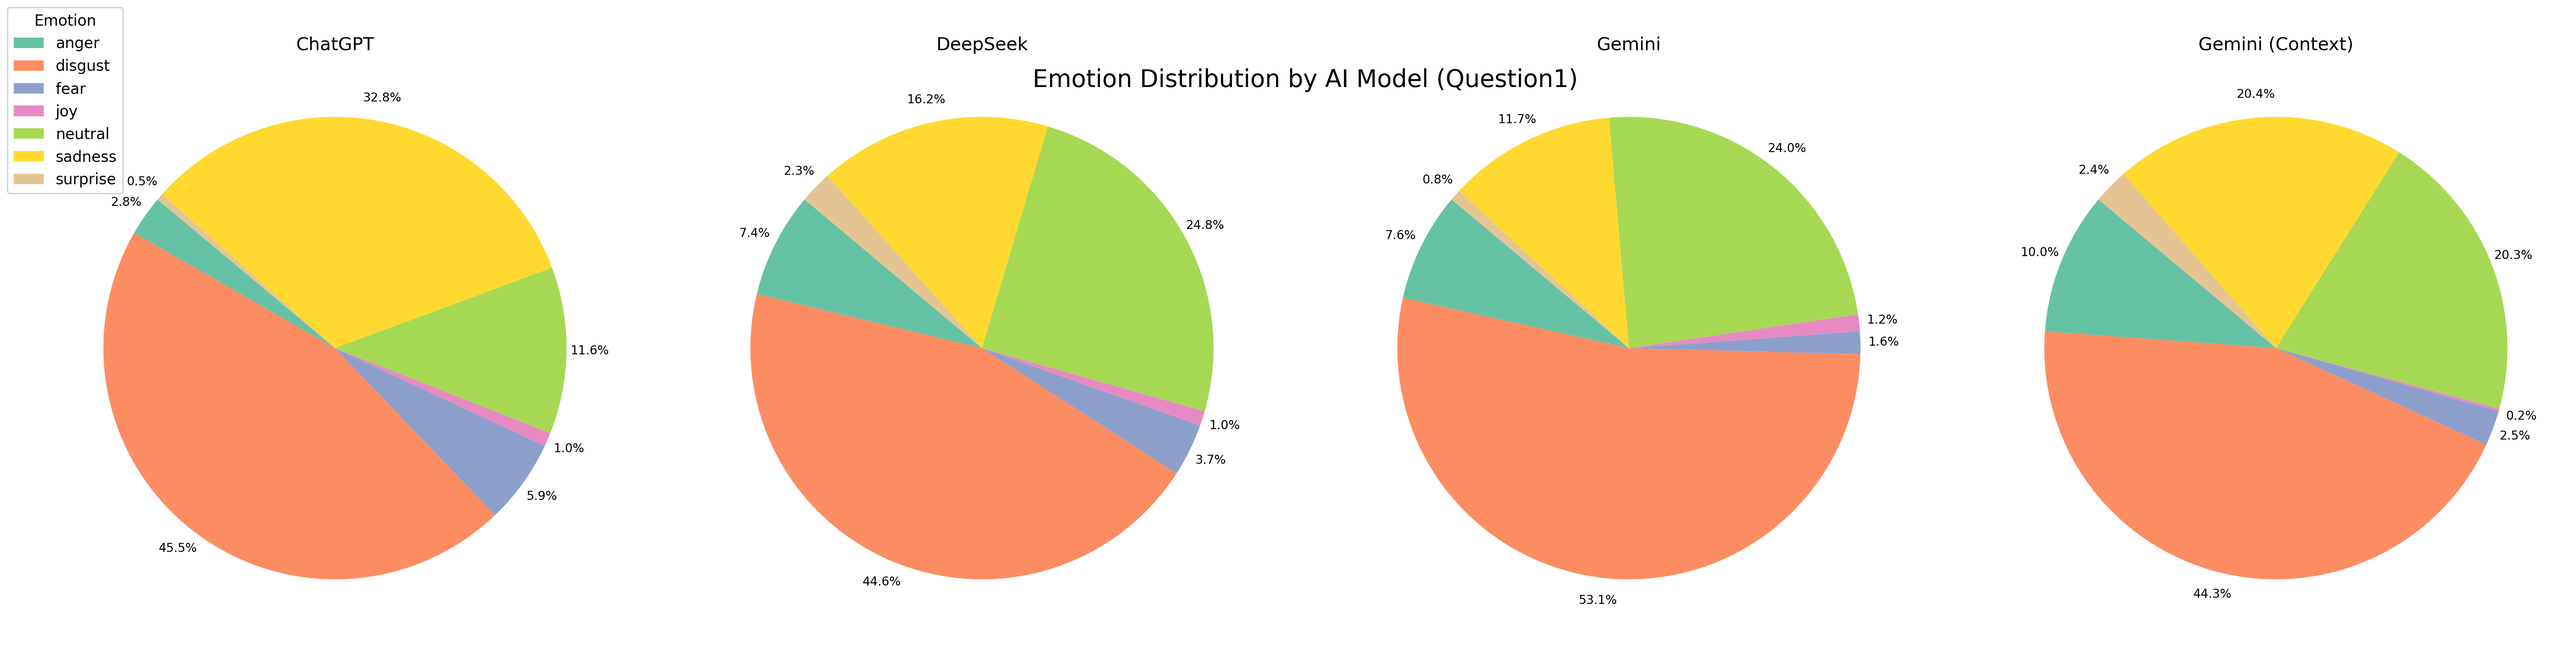
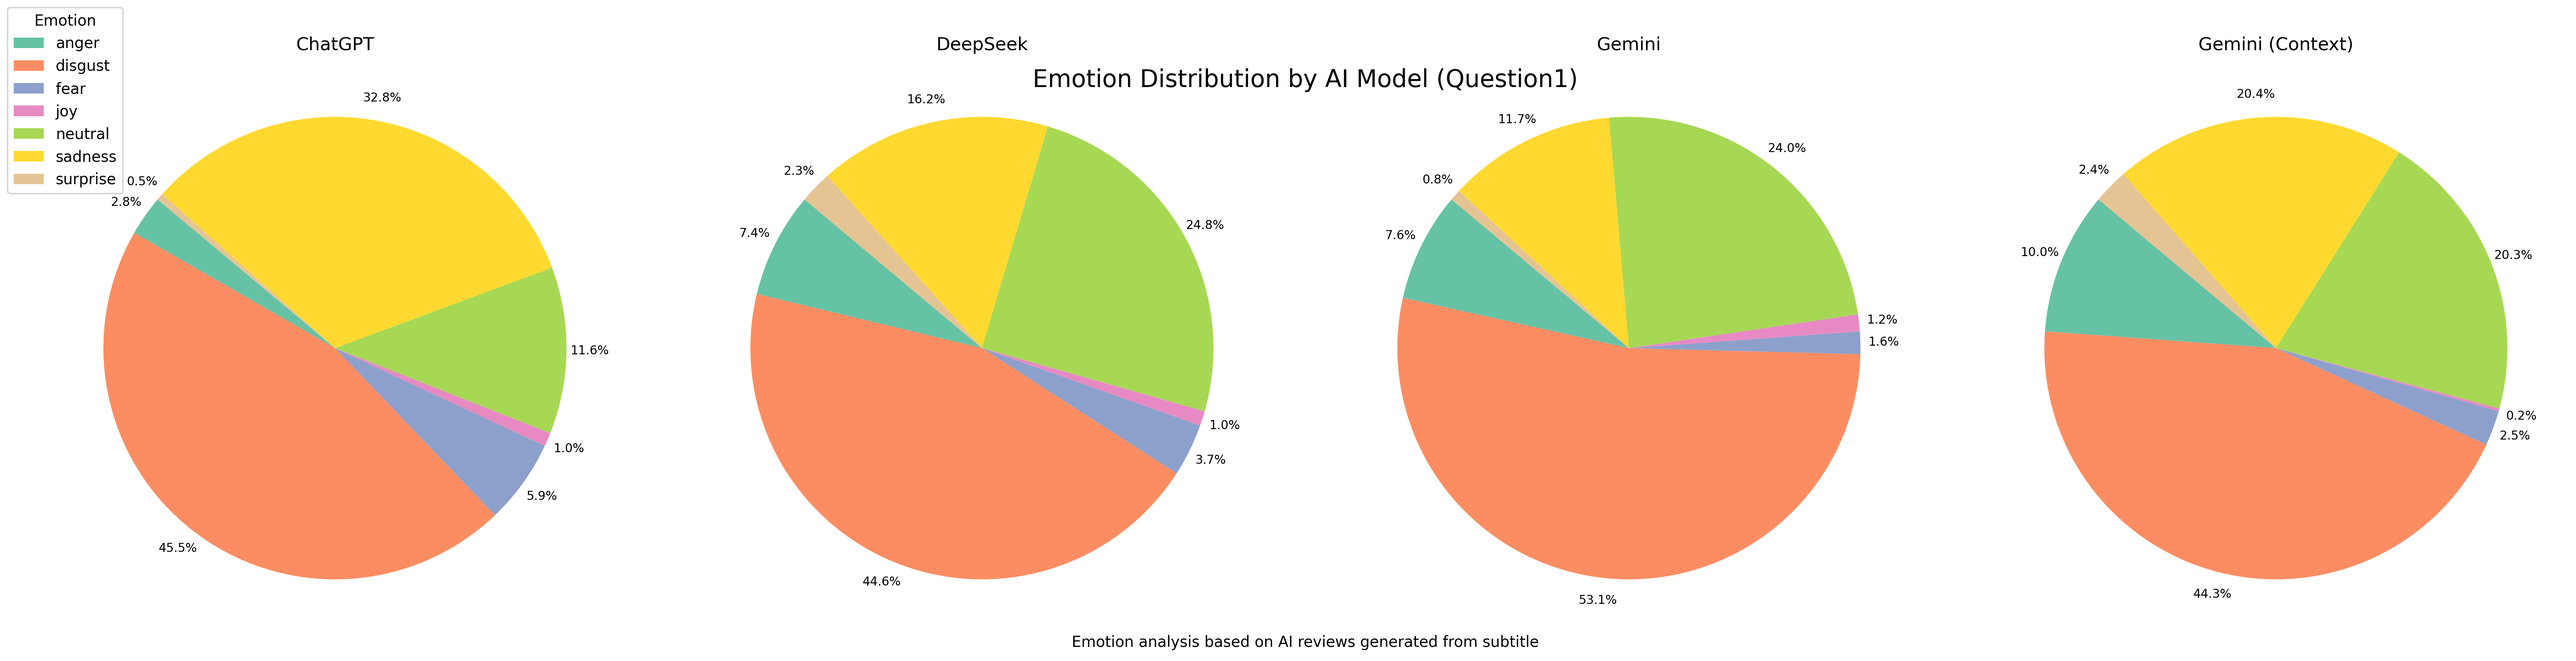
add and update png

diff --git a/visualization/emotion.py b/visualization/emotion.py
@@ -4,24 +4,83 @@ import seaborn as sns
 
 # Load IMDb average emotion scores
 imdb_df = pd.read_csv('../emotions_output/average_emotion_scores_imdb.csv')
-
 # Melt for visualization
 imdb_melted = imdb_df.melt(id_vars='Movie', var_name='Emotion', value_name='IMDb Score')
 # imdb_melted['Source'] = 'IMDb'
 
-# Load AI average emotion scores
-ai_df = pd.read_csv('../emotions_output/average_emotion_scores_subtitles.csv')
-ai_df.rename(columns={'File': 'AI Model'}, inplace=True)
+def generate_emotion_pie_charts(ai_df, source_name='ai'):
+    ai_df = ai_df.copy()
+    ai_df.rename(columns={'File': 'AI Model'}, inplace=True)
+    # mapping
+    if source_name == 'subtitle':
+        ai_df["AI Model"] = ai_df["AI Model"].replace({
+            "aireviews_chatgpt.csv": "ChatGPT",
+            "aireviews_deepseek.csv": "DeepSeek",
+            "aireviews_gemini.csv": "Gemini",
+            "aireviews_gemini_context_variation.csv": "Gemini (Context)"
+        })
+    elif source_name == 'screenplay':
+        ai_df["AI Model"] = ai_df["AI Model"].replace({
+            "aireviews_chatgpt_screenplays.csv": "ChatGPT",
+            "aireviews_deepseek_screenplays.csv": "DeepSeek",
+            "aireviews_gemini_screenplays.csv": "Gemini",
+            "aireviews_gemini_screenplays_context_variation.csv": "Gemini (Context)"
+        })
 
-ai_df["AI Model"] = ai_df["AI Model"].replace({
-    "aireviews_chatgpt.csv": "ChatGPT",
-    "aireviews_deepseek.csv": "DeepSeek",
-    "aireviews_gemini.csv": "Gemini",
-    "aireviews_gemini_context_variation.csv": "Gemini (Context)"
-})
+    # some emotions are not detected, replace NA with 0
+    ai_df = ai_df.fillna(0)
+    # Loop over questions
+    for question_label in ['question1', 'question2', 'question3']:
+        # Filter for this question
+        ai_subset = ai_df[ai_df['Question'] == question_label]
 
-ai_df = ai_df.fillna(0)
+        # Melt the emotion columns
+        ai_sub_melted = ai_subset.melt(
+            id_vars=['AI Model', 'Movie'],
+            value_vars=['fear', 'joy', 'sadness', 'anger', 'disgust', 'neutral', 'surprise'],
+            var_name='Emotion',
+            value_name='Score'
+        )
+        # Calculate average score
+        avg_emotions_df = ai_sub_melted.groupby(['AI Model', 'Emotion'])['Score'].mean().reset_index()
+        avg_emotions_df.columns = ['AI Model', 'Emotion', 'Average Score']
+        models = avg_emotions_df['AI Model'].unique()
+        # Set up subplots (one per model)
+        fig, axes = plt.subplots(1, len(models), figsize=(6 * len(models), 6))
+        colors = sns.color_palette("Set2", n_colors=7)
+        legend_labels = None
+        for ax, model in zip(axes, models):
+            model_data = avg_emotions_df[avg_emotions_df['AI Model'] == model].set_index('Emotion')
+            ax.pie(model_data['Average Score'],
+                   # labels=model_data.index,
+                   labels = None,
+                   autopct='%1.1f%%',
+                   startangle=140,
+                   colors = colors,
+                   pctdistance=1.1,
+                   textprops={'fontsize': 8})
 
+            ax.set_title(f"{model}")
+            if legend_labels is None:
+                legend_labels = model_data.index
+
+        fig.legend(legend_labels, loc='upper left', title='Emotion')
+
+        # Add a main title
+        fig.suptitle(f"Emotion Distribution by AI Model ({question_label.capitalize()})", fontsize=16, y=0.9)
+
+        # add source at the bottom (reivews generated based on subtitles or screenplays)
+        fig.text(0.5, 0.01,
+                 f"Emotion analysis based on AI reviews generated from {source_name}",
+                 fontsize=10, ha='center')
+
+        plt.tight_layout()
+        question_short = f"q{question_label[-1]}"
+        # save fig
+        plt.savefig(f"emotion_scores_{source_name}_{question_short}.png", dpi=300, bbox_inches="tight")
+        plt.show()
+
+# bar plot (neglect it)
 def plot_emotion_by_question(ai_df, question_label):
     question_df = ai_df[ai_df['Question'] == question_label]
 
@@ -50,53 +109,11 @@ def plot_emotion_by_question(ai_df, question_label):
 # plot_emotion_by_question(ai_df, 'question2')
 # plot_emotion_by_question(ai_df, 'question3')
 
-def plot_emotion_pies_by_question(ai_df, question_label):
-    # filter for question
-    ai_subset = ai_df[(ai_df['Question'] == question_label)]
-    ai_sub_melted = ai_subset.melt(
-        id_vars=['AI Model', 'Movie'],       # Columns to keep
-        value_vars=['fear', 'joy', 'sadness', 'anger', 'disgust', 'neutral', 'surprise'],  # Emotion columns
-        var_name='Emotion',                  # New column name for melted column names
-        value_name='Score'                   # New column name for the emotion values
-    )
 
-    # print(ai_sub_melted.head())
+# For subtitles
+ai_subtitle = pd.read_csv('../emotions_output/average_emotion_scores_subtitles.csv')
+generate_emotion_pie_charts(ai_subtitle, source_name="subtitle")
 
-    # calculate average score across emotion
-    avg_emotions_df = ai_sub_melted.groupby(['AI Model','Emotion'])['Score'].mean().reset_index()
-    avg_emotions_df.columns = ['AI Model','Emotion','Average Score']
-
-    models = avg_emotions_df['AI Model'].unique()
-
-    # Set up subplots (one per model)
-    fig, axes = plt.subplots(1, len(models), figsize=(6 * len(models), 6))
-    colors = sns.color_palette("Set2", n_colors=7)
-    # Generate pie chart for each model
-    legend_labels = None
-    for ax, model in zip(axes, models):
-        model_data = avg_emotions_df[avg_emotions_df['AI Model'] == model].set_index('Emotion')
-        ax.pie(model_data['Average Score'],
-               # labels=model_data.index,
-               labels = None,
-               autopct='%1.1f%%',
-               startangle=140,
-               colors = colors,
-               pctdistance=1.1,
-               textprops={'fontsize': 8})
-
-        ax.set_title(f"{model}")
-        if legend_labels is None:
-            legend_labels = model_data.index
-
-    fig.legend(legend_labels, loc='upper left', title='Emotion')
-
-    # Add a main title
-    fig.suptitle(f"Emotion Distribution by AI Model ({question_label.capitalize()})", fontsize=16, y=0.9)
-    plt.tight_layout()
-    # save fig
-    plt.savefig(f"emotion_scores_{question_label}.png", dpi=300, bbox_inches="tight")
-    plt.show()
-
-plot_emotion_pies_by_question(ai_df, 'question1')
-plot_emotion_pies_by_question(ai_df, 'question2')
-plot_emotion_pies_by_question(ai_df, 'question3')
+# For screenplays
+ai_screenplay = pd.read_csv('../emotions_output/average_emotion_scores_screenplays.csv')
+generate_emotion_pie_charts(ai_screenplay, source_name="screenplay")
